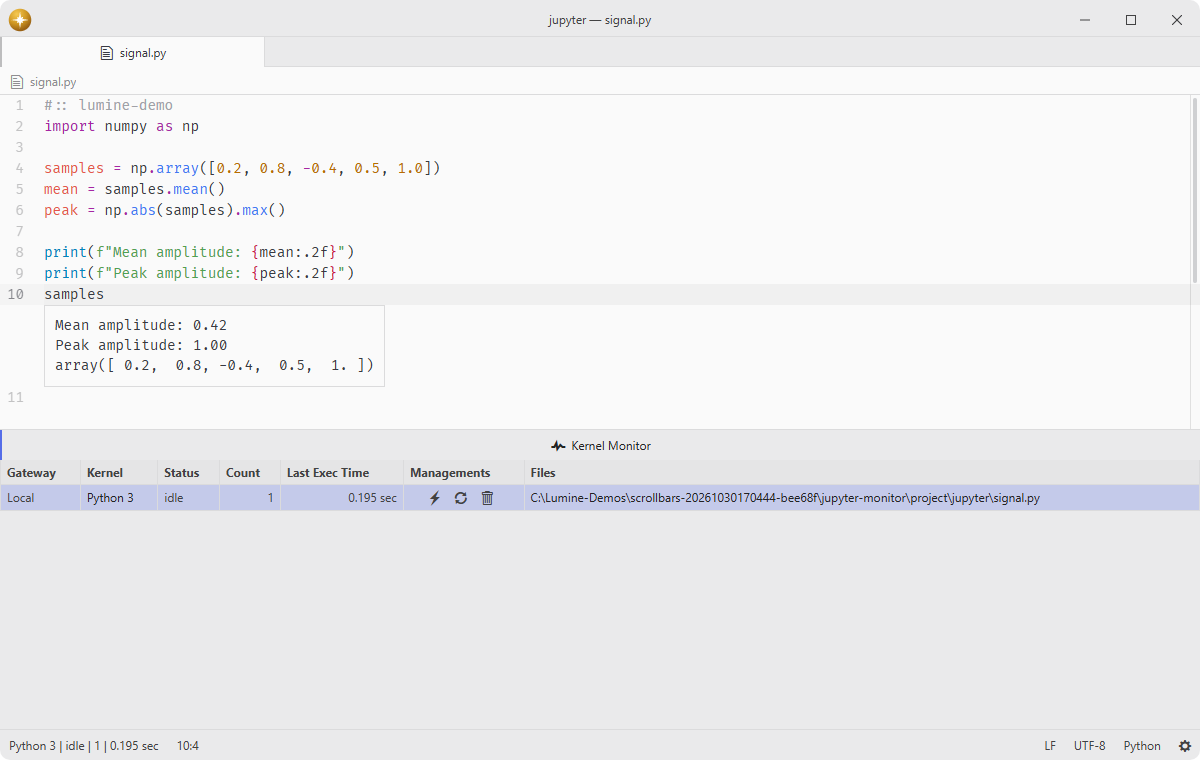
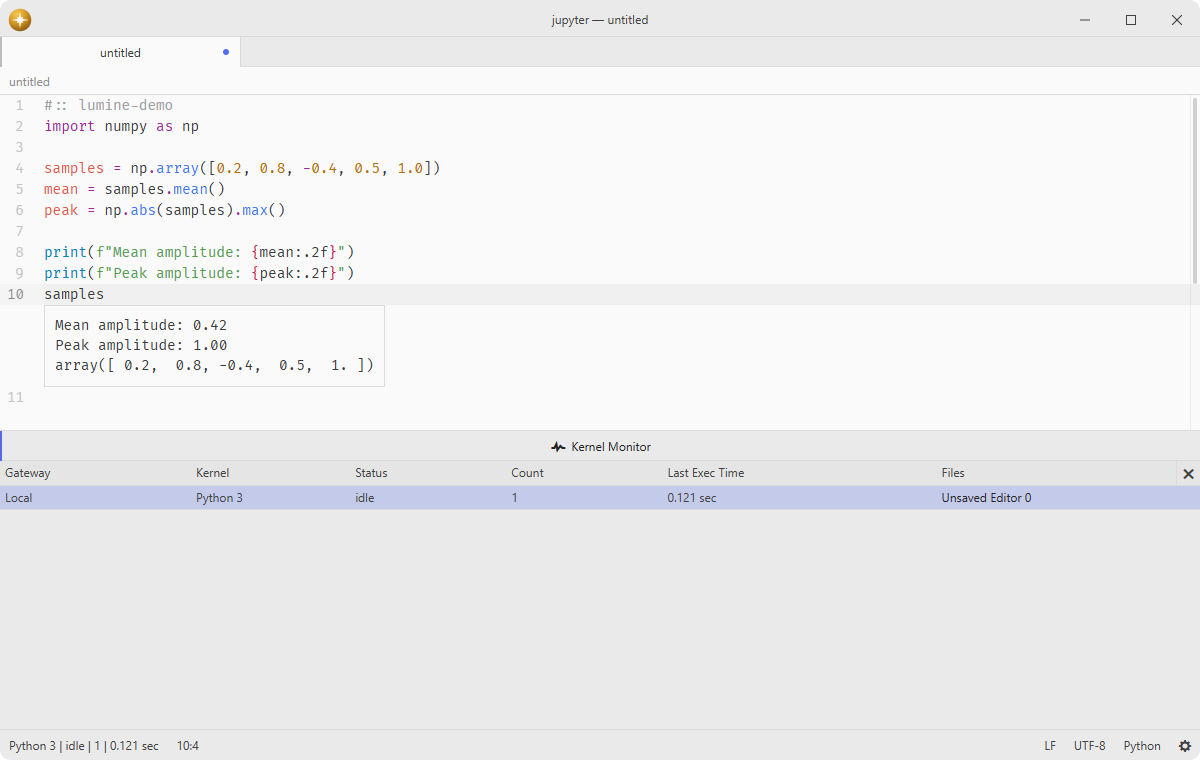
Use a native Kernel Monitor shutdown action

diff --git a/demo.js b/demo.js
@@ -5,7 +5,7 @@ module.exports = {
   viewport: { width: 1200, height: 760 },
   async before() {},
   async prepare(context) {
-    const { lumine, state, fixture, open, profile } = context;
+    const { lumine, state, fixture, profile } = context;
     state.jupyterData = require("path").join(profile, "jupyter");
     const kernel = require("path").join(state.jupyterData, "kernels", "lumine-demo");
     require("fs").mkdirSync(kernel, { recursive: true });
@@ -23,7 +23,8 @@ module.exports = {
         language: "python",
       }),
     );
-    state.editor = await open("jupyter/signal.py");
+    state.editor = await lumine.workspace.open();
+    state.editor.setText(require("fs").readFileSync(fixture("jupyter/signal.py"), "utf8"));
     await lumine.project.setPaths([fixture("jupyter")]);
     process.env.JUPYTER_PATH = state.jupyterData;
     lumine.grammars.assignLanguageMode(state.editor.getBuffer(), "source.python");

diff --git a/lib/monitor.jsx b/lib/monitor.jsx
@@ -526,7 +526,7 @@ class Monitor {
             {sort}
             <button
               type="button"
-              className="monitor-shutdown-all data-table-header-action native-key-bindings icon-button icon-button-no-scale icon icon-x"
+              className="monitor-shutdown-all data-table-header-action native-key-bindings icon icon-x"
               dataset={{ tooltip: "Shutdown all" }}
               attributes={{ "aria-label": "Shutdown all" }}
               disabled={
